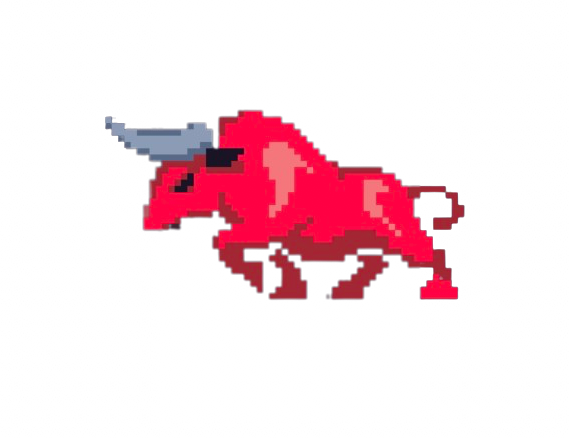
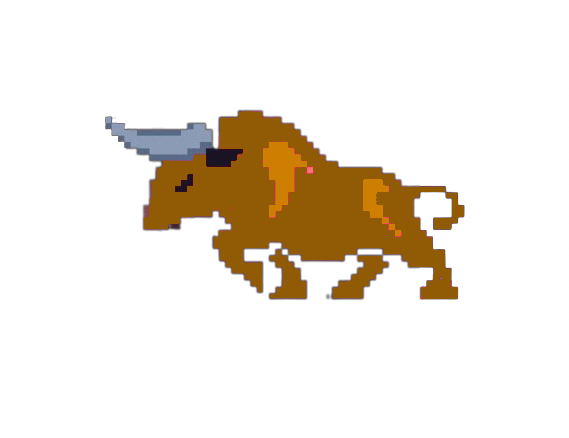
Fixed text size issue and also changed bull styling

Changed region(s): [[0.239, 0.2374, 0.8366, 0.6826], [0.2091, 0.3265, 0.2689, 0.3562], [0.1793, 0.2671, 0.2091, 0.2968]]

diff --git a/src/home/index.css b/src/home/index.css
@@ -1,4 +1,3 @@
-
 #play-game {
     background-color: #007bff;
     color: #fff;
@@ -15,7 +14,6 @@
     background-color: #007bff;
     color: #fff;
     border: none;
-    /* padding: 10px 20px; */
     cursor: pointer;
     text-align: center;
     font-size: 18px;
@@ -27,7 +25,7 @@
     text-align: center;
 }
 
-h1{
+h1 {
     text-align: center;
 }
 
@@ -46,12 +44,16 @@ h1{
 #welcome-desc {
     font-size: 25px;
     text-align: center;
-    padding-left: 600px;
-    padding-right: 600px;
+    padding-left: 15%;
+    padding-right: 15%;
     padding-bottom: 20px;
+    width: 70%;
+    margin: 0 auto;
 }
+
 #message {
     text-align: center;
     font-size: 20px;
+    width: 75%;
+    margin: 0 auto;
 }
-

diff --git a/src/game/index.html b/src/game/index.html
@@ -1,8 +1,10 @@
 <!DOCTYPE html>
-<title>Asteroids</title>
+<title>BULL RUN</title>
 <script src=scripts/jquery.min.js></script>
 <script src=scripts/page.js></script>
 <link href=style/index.css rel=stylesheet>
+<link rel="shortcut icon" type="image/x-icon" href="favicon.ico">
+<link rel="shortcut icon" type="image/png" href="src/favicon.ico"/>
 <link href="https://fonts.googleapis.com/css2?family=VT323&display=swap" rel=stylesheet>
 
 <div class=outer-container>
@@ -11,7 +13,7 @@
         <div id=main_menu>
             <h1 id=menu_header>
                 <img id="asteroid_left"> 
-                Asteroids 
+                BULL RUN
                 <img id="asteroid_right">
             </h1>
 

diff --git a/src/game/style/index.css b/src/game/style/index.css
@@ -252,3 +252,4 @@ button {
 #ninty_margin { 
     margin: 90px;
 }
+

diff --git a/src/start/index.css b/src/start/index.css
@@ -33,4 +33,3 @@ p {
 #text2 {
     font-size: 20px;
 }
-
